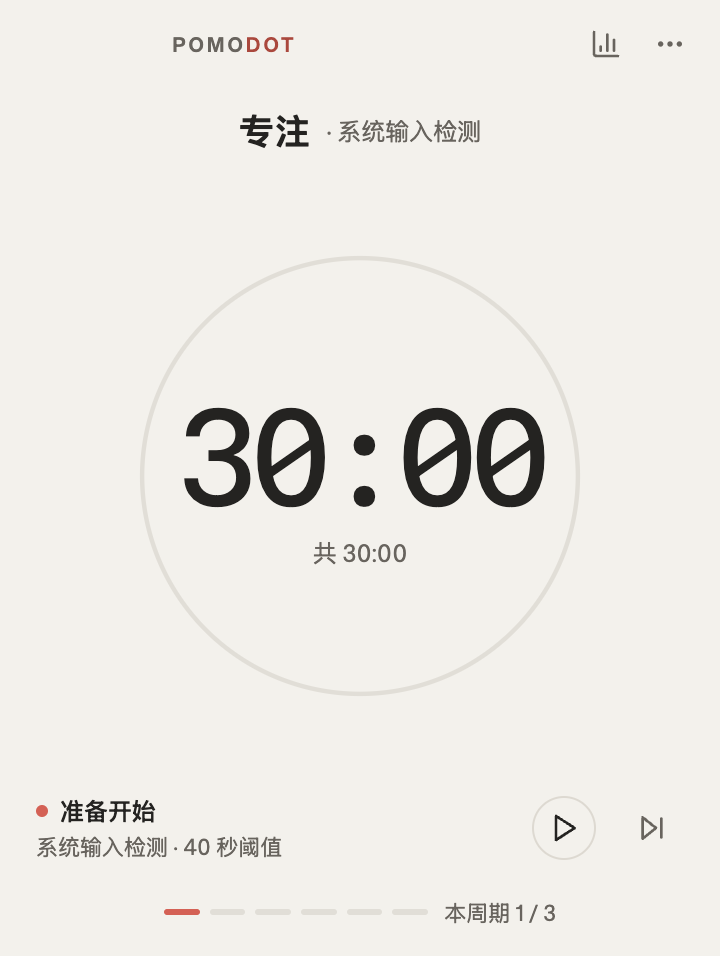
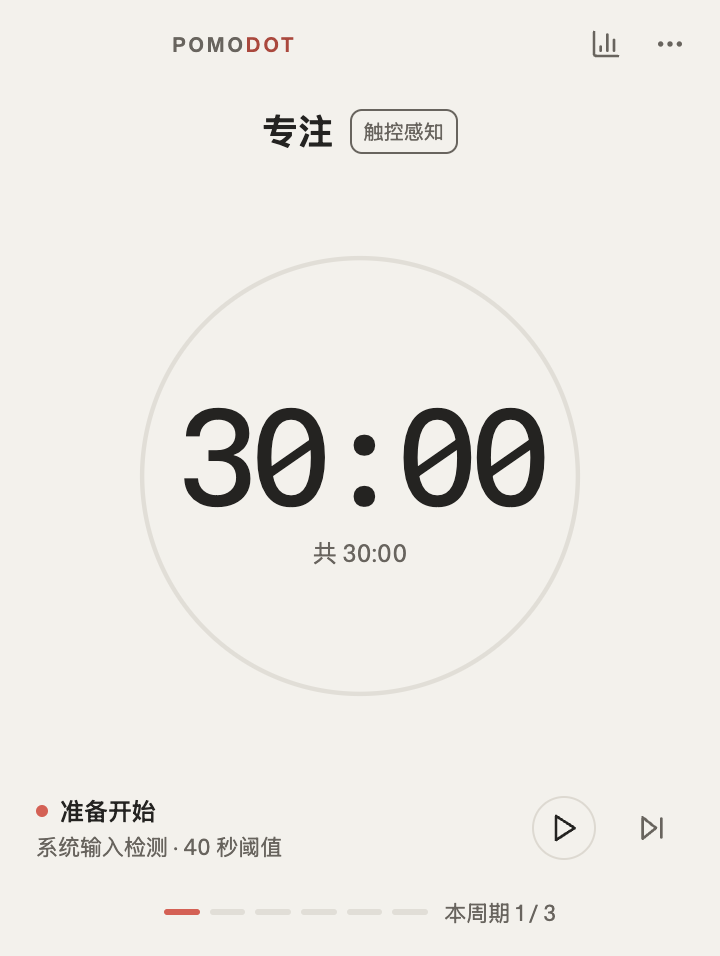
docs: document local camera sensing and verified delivery

Changed region(s): [[0.3361, 0.1213, 0.6722, 0.1517]]

diff --git a/apps/desktop/src/renderer/App.tsx b/apps/desktop/src/renderer/App.tsx
@@ -747,7 +747,11 @@ export function App(): ReactElement {
       if (!active) return;
       setOperationError(message);
       void window.pomodoro.reportCameraPresence("unknown", cameraState.generation).catch(() => {
-        // Main 的心跳看门狗也会处理 IPC 中断，避免前端自行接管计时。
+        // 领域：Camera / IPC 故障
+        // 顺序：Renderer 故障上报失败 -> Main 心跳期限 -> 触控回退。
+        // 作用：跨进程中断时等待 Main 的安全回退。
+        // 原因：前端不能自行决定权威计时或持久化模式。
+        // 边界：本地摄像头已由 controller 释放，不在此重复启动。
       });
     });
     return () => { active = false; stop(); };

diff --git a/docs/contracts.md b/docs/contracts.md
@@ -11,10 +11,20 @@ getSettings(): Promise<Settings>
 updateSettings(patch: Partial<Omit<Settings, "version">>): Promise<Settings>
 getCapabilities(): Promise<Capabilities>
 getStatistics(): Promise<StatisticsSnapshot>
+getCameraState(): Promise<CameraState>
+reportCameraPresence(presence: Presence, generation: number): Promise<TimerSnapshot>
 subscribe(listener: (event: CoreEvent) => void): () => void
 ```
 
-每个参数和返回值都经过共享 Zod schema。Main 仅接受主窗口 sender；Preload 不暴露通用 IPC。
+每个参数和返回值都经过共享 Zod schema。Main 仅接受可信主窗口的主 frame sender；Preload 不暴露通用 IPC。摄像头报告的 wire payload 为严格的 `{ presence, generation }`，拒绝额外字段；不接收画面、检测框、时间戳或设备信息。
+
+```ts
+type Presence = "present" | "away" | "unknown";
+interface CameraState { enabled: boolean; generation: number }
+interface Capabilities { inputMonitoring: boolean; cameraPresence: boolean; standingFocus: false }
+```
+
+`CameraState` 是 Main 决定的本次检测生命周期。切换模式、睡眠/锁屏、恢复或释放检测时更换代次；Main 拒绝停用或旧代次的报告。首次有效报告前有 25 秒启动窗口，之后连续 5 秒没有有效报告则停止监控并回退触控。`unknown` 表示故障，不作为离席使用。
 
 窗口拖动和尺寸约束由原生窗口处理，Renderer 根据视口尺寸排版。这些操作独立于计时命令、事件和持久化。
 
@@ -24,20 +34,22 @@ subscribe(listener: (event: CoreEvent) => void): () => void
 type TimerStatus = "idle" | "running" | "auto-paused" | "manual-paused";
 type RoundKind = "focus" | "short-break" | "long-break";
 type BreakMode = "active" | "desk";
-type PauseReason = "none" | "input-away" | "break-condition" | "system-suspend" | "system-lock" | "core-recovery" | "source-unavailable" | "storage-unavailable";
+type PauseReason = "none" | "input-away" | "camera-away" | "break-condition" | "system-suspend" | "system-lock" | "core-recovery" | "source-unavailable" | "storage-unavailable";
 
 interface TimerSnapshot {
   revision: number; emittedAt: string; status: TimerStatus; remainingMs: number;
   round: { kind: RoundKind; cycleNumber: number; positionInCycle: number; focusRoundNumber: number | null; breakMode: BreakMode | null; totalDurationMs: number };
-  automation: { activePresenceSource: "input"; inputPresence: "present" | "away" | "unknown"; cameraPresence: "unknown"; inputMonitoringAvailable: boolean; cameraMonitoringAvailable: false; manualPauseLocked: boolean; pauseReason: PauseReason };
+  automation: { activePresenceSource: "input" | "camera"; inputPresence: Presence; cameraPresence: Presence; inputMonitoringAvailable: boolean; cameraMonitoringAvailable: boolean; manualPauseLocked: boolean; pauseReason: PauseReason };
 }
 ```
 
-默认设置为 `30/5/30/5/30/10`。专注在场输入时运行，活动休息在离席时运行，桌前休息在无输入时运行。自动暂停冻结 `remainingMs`；手动暂停会设置锁。休息轮在空闲确认阈值前最多 10 秒由 TimerEngine 以内存候选预记倒计时，达到阈值并进入 `running` 时才扣除已观测的候选时长；确认前快照不变更剩余时间，首次样本超过阈值不补历史。候选不进入 IPC 或 SQLite，输入回归、手动操作、检测失败、睡眠、重启、切轮或阈值改变时取消，最多抵扣当前休息剩余时长。
+默认设置为 `30/5/30/5/30/10`。专注使用 `focusPresenceSource` 选中的在场源；活动休息和桌前休息始终使用系统输入无输入条件，`activePresenceSource` 显示当前轮次实际采用的来源。自动暂停冻结 `remainingMs`；手动暂停会设置锁。休息轮在空闲确认阈值前最多 10 秒由 TimerEngine 以内存候选预记倒计时，达到阈值并进入 `running` 时才扣除已观测的候选时长；确认前快照不变更剩余时间，首次样本超过阈值不补历史。候选不进入 IPC 或 SQLite，输入回归、手动操作、检测失败、睡眠、重启、切轮或阈值改变时取消，最多抵扣当前休息剩余时长。
 
 ## 3. 设置生效
 
 设置范围与产品规格一致：专注 300–7200 秒、短休 60–3600 秒、长休 60–5400 秒、周期 1–8 轮、输入阈值 10–600 秒。主题和常驻顶部立即生效；时长在下一轮同类型轮次生效，周期轮数在下一周期生效，休息模式在下一轮休息生效，输入阈值在下一采样生效。
+
+`focusPresenceSource: "input" | "camera"` 默认 `input`。改变来源立即清除旧摄像头在场状态；若当前为专注，也取消临时手动回退并将运行中的专注安全暂停，等待新源样本。不重置计时、不改变休息策略、不解除手动暂停锁。监控专注只在有效 `present` 时允许显式开始/继续。摄像头故障由 Main 保存回退后的 `input` 设置，并通过 `settings.changed` 通知 Renderer；用户重新选择监控才重试。
 
 ## 4. 事件
 
@@ -45,20 +57,22 @@ interface TimerSnapshot {
 type CoreEvent =
   | { type: "timer.snapshot"; snapshot: TimerSnapshot }
   | { type: "stats.changed"; statistics: StatisticsSnapshot }
+  | { type: "settings.changed"; settings: Settings }
+  | { type: "camera.state"; state: CameraState }
   | { type: "core.error"; code: string; message: string; recoverable: boolean };
 ```
 
-Main 每 500ms 广播权威快照。命令、输入采样、轮次变化、电源事件和设置保存走同一广播链，Renderer 从 `TimerSnapshot` 更新计时显示。
+Main 每 500ms 广播权威快照。命令、输入/摄像头采样、轮次变化、电源事件和设置保存走同一广播链，Renderer 从 `TimerSnapshot` 更新计时显示。Renderer 读取初始 `CameraState` 并监听 `camera.state`，按代次启动或释放唯一摄像头检测器；初始化完成后约每 500ms 上报三态心跳。切换到设置或统计不另开检测器。
 
 `stats.changed` 在完成记录事务提交后或本机日期变化时发布，不为跳过轮次增加统计。`core.error` 中 `STORAGE_UNAVAILABLE/recoverable=false` 表示计时已在内存中冻结、后台写入已停止，需要重新打开应用；`COMMAND_REJECTED/recoverable=true` 等普通操作错误只显示可恢复提示，不移除正常计时视图。
 
-检测故障下显式手动继续、锁屏门禁、完成通知计数仅存在于 TimerEngine 内存，不扩展 preload allowlist。有效检测恢复后取消临时手动回退；锁屏解除本身不启动计时。若变化仅涉及在场状态或检测可用性，实时快照更新 revision，SQLite 不写入。相同的静止样本保持 revision，运行中的轮次仍按秒保存进度。
+输入检测故障下显式手动继续、锁屏门禁、完成通知计数仅存在于 TimerEngine 内存。有效输入检测恢复后取消临时手动回退；锁屏解除本身不启动计时。若变化仅涉及在场状态或检测可用性，实时快照更新 revision，SQLite 不写入。相同的静止样本保持 revision，运行中的轮次仍按秒保存进度。
 
 ## 5. SQLite 数据模型
 
 保留并兼容既有表：`schema_migrations`、`settings`、单行 `timer_snapshot`、`completed_focus_sessions`。只有完整结束的 focus 写入 `completed_focus_sessions`。完成记录使用由周期和专注轮次生成的稳定 ID，`INSERT OR IGNORE` 防止重试重复计数。统计按 `local_date` 聚合今日、本周和最近 52 周数据。
 
-`TimerSnapshot` 是运行时 IPC 契约。闲置秒数只在 Main 内存中使用，Renderer 通过实时快照读取推断出的在场状态。SQLite 的计时检查点只保存恢复轮次所需的数据，普通检查点与完成专注的事务使用同一写入格式。重启后，在场状态为 `unknown`，直到收到有效样本。升级时，可读取的旧检查点转换为新格式，设置和完成记录继续保留。既有备份和故障恢复归档按原样保存，可能包含旧版本写入的字段。
+`TimerSnapshot` 是运行时 IPC 契约。闲置秒数只在 Main 内存中使用，Renderer 通过实时快照读取推断出的在场状态。摄像头帧只在 Renderer 瞬时处理，三态和代次只在内存中使用。SQLite 的计时检查点只保存恢复轮次所需的数据，普通检查点与完成专注的事务使用同一写入格式，不保存 `automation`、presence、摄像头代次或检测历史。设置中可保存选中的专注源，沿用版本 1 设置格式，不改动已发布的数据库迁移。重启后，两种在场状态均为 `unknown`，直到收到有效样本。升级时，可读取的旧检查点转换为新格式，设置和完成记录继续保留。既有备份和故障恢复归档按原样保存，可能包含旧版本写入的字段。
 
 Store 每次打开数据库都会尝试将 WAL 合入主文件并截断。若外部读取连接仍占用旧页，逻辑检查点已完成转换，旧页清理会在下次打开时重试。此时复制的原始文件也可能包含旧版本的数据。
 

diff --git a/docs/camera-presence-validation.md b/docs/camera-presence-validation.md
@@ -1,0 +1,34 @@
+# 摄像头感知开发验证
+
+本次按用户需求实现默认触控、主动切换监控的本地在场感知。专注使用选中来源，两种休息仍使用系统输入。参考同目录 Pomotroid 的本地模型和检测阈值，计时、故障回退、权限门禁和持久化继续由本项目负责。
+
+分支为 `codex/camera-presence`，基于 `origin/main` 的 `e530493`。功能与测试提交依次为 `36967f9`（状态机和契约）、`90f3856`（本地检测及模式入口）、`d2070bd`（跨进程、开发入口和小窗回归）；后续文档提交记录本次验证。开发使用独立 worktree，原工作目录的未提交修改保持原样。
+
+验证平台：Apple Silicon，macOS 26.4.1（25E253），Node.js 24.15.0，Electron 33.4.11。以下检查于 2026-11-07 完成。
+
+| 实际执行 | 结果 |
+| --- | --- |
+| `npm ci` | 成功安装锁定依赖 |
+| `npm run lint` / `npm run typecheck` | 通过 |
+| `npm run test` | 180 项通过，含计时、权限、严格契约、摄像头取消/故障清理和界面检查 |
+| `npm run test:store` | 13 项通过，含模式持久化、冻结进度恢复及检查点不含在场结果 |
+| `npm run build` | 通过，本地模型校验和匹配；SIMD/非 SIMD 运行时由锁定 npm 包生成 |
+| `npm run test:e2e` | 19 项全部通过，含 5 项摄像头用例及既有计时、窗口、数据故障回归 |
+| `node scripts/validate-renderer-layout.mjs` | 通过，覆盖最小窗口与多种宽高布局 |
+| `POMODORO_CAMERA_SMOKE=1 node scripts/smoke-dev.mjs` | 真实 `npm run dev`、隔离数据目录、同源本地推理和设备释放通过 |
+| `CSC_IDENTITY_AUTO_DISCOVERY=false npm run package --workspace=@pomodoro/desktop -- --dir` | macOS ARM64 应用目录打包通过，未签名；本次没有生成或验收 DMG 安装过程 |
+| 打包应用运行 `camera.e2e.ts` | 5 项通过，真实加载 ASAR 内本地模型和 WASM |
+| 打包内容检查 | 模型、两套 JS/WASM、Apache 许可证均在 ASAR 中；Info.plist 含摄像头用途说明 |
+
+摄像头 E2E 和开发入口验证始终使用 Chromium 模拟摄像头，没有采集物理摄像头。检测器使用真实本地 MediaPipe/BlazeFace，模拟无脸画面得到 `away`；请求记录确认生产检测没有 HTTP/HTTPS 资源请求，开发检测只访问本机 Vite 同源资源。另用受限 preload 上报受控三态样本，验证专注在场/离开、输入闲置隔离、手动暂停锁、睡眠后新代次、旧代次拒绝、重载和心跳过期回退。
+
+模拟设备用例还验证窗口隐藏超过心跳期限仍持续检测、160×180 小窗可从更多菜单切回触控、视频轨道进入 `ended`。全量回归曾发现模式按钮压缩最小窗口圆环；修复后紧凑布局通过菜单切换，既有圆环尺寸检查与完整 E2E 均通过。截图见[初始触控](assets/screenshots/timer-light.png)和[监控离开暂停](assets/screenshots/camera-monitor.png)。
+
+重新验证打包应用时，先执行上述打包命令，再在 `apps/desktop` 目录运行：
+
+```sh
+POMODORO_CAMERA_EXECUTABLE="$PWD/dist/mac-arm64/Pomodoro Timer.app/Contents/MacOS/Pomodoro Timer" \
+  npx playwright test camera.e2e.ts --output=test-results/camera-packaged
+```
+
+Windows 真机、物理摄像头在不同光照下的检测、OS 首次授权/撤销、真实睡眠/锁屏以及签名安装包验收尚未执行。下一步按[摄像头验证门](roadmap.md#摄像头验证门)分别记录 macOS 和 Windows 的 OS、构建及结果；模拟媒体流和模拟电源事件不代替这些项目。本次未发布、推送或合并分支。

diff --git a/docs/roadmap.md b/docs/roadmap.md
@@ -1,6 +1,6 @@
 # 分阶段路线图
 
-## 当前交付：Phase 1
+## 当前交付：Phase 1 与本地摄像头感知
 
 当前实现以 Electron + React + TypeScript 为唯一运行架构，不再有 Go/Rust sidecar。代码和自动化验证已覆盖以下闭环；发布门仍需完成真实平台验证：
 
@@ -11,6 +11,7 @@
 - 托盘、通知、关闭到托盘、置顶、事件广播、浅色/深色/跟随系统主题。拖动窗口边缘可缩成 160×180 的挂件，高度最多为宽度的 1.5 倍。小窗仍显示轮次、剩余时间、暂停原因、圆形操作按钮和统计入口。
 - 受限 preload、严格 CSP、Zod 运行时 IPC 校验、Vitest 状态机测试和 Playwright Electron E2E。
 - 单实例数据保护、锁屏门禁、检测故障下显式手动计时、字段级设置错误恢复、存储故障备份与用户选择重建、实时统计事件；静止检查点和托盘更新去重。
+- 按用户明确需求增加 Phase 2 本地摄像头感知：默认触控，主动选择监控，MediaPipe/BlazeFace 本地推断，主进程按三态信号管理专注；两种休息继续使用输入。此范围变更不代表 Phase 1 的所有真机发布门已通过。
 
 ## Phase 1 发布门
 
@@ -25,7 +26,26 @@
 
 ## Phase 2：本地摄像头在场
 
-仅在 Phase 1 发布门通过后实现。Renderer 在显式授权和 OS permission 后本地处理帧，只发送布尔 presence；不做身份识别、医疗判断或强活体反欺骗。失败时回退输入检测并可见提示。
+本次实现经用户明确授权提前开展，不阻塞既有 Phase 1 真机验收。Renderer 在主动选择监控和 OS permission 后本地处理帧，只发送三态 presence 与主进程签发的检测代次；不做身份识别、医疗判断或强活体反欺骗。摄像头权限、模型、视频和心跳失败均回退触控并可见提示；手动暂停锁和默认输入策略保持有效。
+
+### 摄像头验证门
+
+自动化验证与真机验收分别记录，模拟媒体流和模拟电源事件不能替代操作系统权限及物理设备检查。
+
+1. 状态机覆盖源切换、监控专注不受输入干扰、两种休息仍采用输入、unknown 安全暂停、手动暂停锁、睡眠/锁屏/重启后等待新样本。
+2. Renderer 验证默认触控不调用摄像头、模式控件与状态提示、初始化取消、模型/视频失败后释放资源，以及迟到异步结果清理。
+3. Electron E2E 验证严格 preload/IPC、旧代次拒绝、初始化/心跳超时回退和设置事件同步。原生 SQLite 验证监控设置重启保留、检查点没有在场状态或检测代次。
+4. 打包产物应包含本地模型、SIMD/非 SIMD WASM 和许可证；断网时可初始化检测，CSP 不依赖远程脚本或模型。
+
+| 真机项目 | macOS | Windows |
+| --- | --- | --- |
+| 默认触控无摄像头请求；首次允许/拒绝授权及系统设置撤销 | 待验收 | 待验收 |
+| 正常光照下在场、转头、离开 3 秒、回归；手动暂停锁 | 待验收 | 待验收 |
+| 外接摄像头拔出、设备占用、断网启动、重复切换释放指示灯 | 待验收 | 待验收 |
+| 最小化/隐藏/托盘后台检测；睡眠/锁屏释放与恢复新样本 | 待验收 | 待验收 |
+| 安装包摄像头用途声明、权限提示和实际资源加载 | 待验收 | 待验收 |
+
+本表在本次代码开发时不宣称真机通过。执行验收时补充 OS、架构、构建/提交及结果；任一平台未通过时不得把模拟 E2E 记为该平台已通过。
 
 ## Phase 3：手动站立专注与产品硬化
 

diff --git a/README.md b/README.md
@@ -38,6 +38,7 @@ beta.2 已知问题：
 
 - **可配置节奏**：默认 `30 / 5 / 30 / 5 / 30 / 10` 分钟，三轮专注后进入长休；可调整各轮时长和每周期专注轮数。
 - **输入闲置检测**：默认连续 40 秒无系统输入后暂停专注，恢复输入后按状态自动继续；手动暂停不会被自动解除。
+- **感知模式（开发版）**：默认触控，可主动切换监控，以本地摄像头在场信号管理专注。摄像头失败时提示并回退触控；两种休息继续使用系统输入。
 - **两种休息模式**：活动休息与桌前休息。当前均基于无输入信号判断开始与暂停，不代表已验证离席、走动或运动。
 - **本地统计**：今日、本周和最近 52 周热力图；只有完整完成的专注轮才计入统计，跳过或重置不计入。
 - **桌面控制**：拖动窗口边缘缩放计时器，拖动留白移动窗口。支持置顶、托盘菜单、系统通知，以及浅色/深色/跟随系统主题。
@@ -58,14 +59,15 @@ beta.2 已知问题：
 3. 使用暂停/继续控制当前轮，或点击下一步跳过；下一轮专注需要手动开始。
 4. 点击计时器右上角的统计图标查看专注记录，点击“更多操作”打开设置。修改节奏后，正在运行的轮次仍按原计划计时。[设置生效时机](docs/product-spec.md#2-默认配置与设置)
 5. 在开发版中，拖动窗口边缘调整大小，拖动计时器上的留白移动窗口。内容区域最小为 160×180，宽 160 px 时最高可拉到 240 px。小窗仍显示轮次、剩余时间和暂停原因，可直接点圆形播放按钮继续，或点统计图标查看记录。[查看最小窗口](docs/assets/screenshots/drag-minimum-interrupted-break.png)
+6. 开发版主界面的感知模式默认触控。选择监控并授予摄像头权限后，以人脸在场信号管理专注；切回触控即可停止摄像头。监控权限与实际设备仍需按[摄像头验证门](docs/roadmap.md#摄像头验证门)验收。
 
 ## 本地数据与隐私
 
 应用离线运行，设置、计时快照和完成记录保存在当前设备的 SQLite 数据库中，文件为 Electron `app.getPath("userData")` 下的 `pomodoro.sqlite`。
 
-系统输入检测只读取“距最近一次系统输入的秒数”，不记录按键内容、鼠标位置、活动窗口或屏幕内容。当前没有账号、云同步或遥测，也没有启用摄像头检测；摄像头在场和手动站立专注属于后续阶段，Linux 不在当前支持范围。
+系统输入检测只读取“距最近一次系统输入的秒数”，不记录按键内容、鼠标位置、活动窗口或屏幕内容。开发版的摄像头感知需要主动选择监控，画面只在本机瞬时处理，不保存、不上传，不识别身份。当前没有账号、云同步或遥测；手动站立专注属于后续阶段，Linux 不在当前支持范围。
 
-开发版只在内存中使用闲置秒数和推断出的在场状态。重启后会恢复轮次和剩余时间，等新的输入采样再判断在场状态。从旧版本升级时，已有备份保留原样；详见[更新记录](CHANGELOG.md)。
+开发版只在内存中使用闲置秒数和推断出的在场状态。重启后会恢复轮次和剩余时间，等选中来源的新样本再判断在场状态。从旧版本升级时，已有备份保留原样；详见[更新记录](CHANGELOG.md)。
 
 ## 从源码开发
 

diff --git a/AGENTS.md b/AGENTS.md
@@ -2,7 +2,7 @@
 
 ## Product scope
 
-Pomodoro Timer is a local-first Electron desktop focus timer for macOS and Windows. Phase 1 includes React/TypeScript UI, a main-process timer core, system-input monitoring, configurable `30/5/30/5/30/10` cycles, active/desk breaks, local statistics, heatmap, tray controls, notifications, compact layout, and light/dark/system themes. Phase 2 may add opt-in local camera presence; Phase 3 may add manual standing sessions.
+Pomodoro Timer is a local-first Electron desktop focus timer for macOS and Windows. Phase 1 includes React/TypeScript UI, a main-process timer core, system-input monitoring, configurable `30/5/30/5/30/10` cycles, active/desk breaks, local statistics, heatmap, tray controls, notifications, compact layout, and light/dark/system themes. Phase 2 adds opt-in local camera presence for focus rounds; system input remains the default and controls both break modes. Phase 3 may add manual standing sessions.
 
 Do not add accounts, cloud sync, telemetry, calendar scheduling, identity recognition, medical claims, Linux support, strict camera anti-spoofing, HTTP/WebSocket services, or child-process cores without an explicit scope change.
 
@@ -26,7 +26,8 @@ scripts/        development, verification, packaging, and release helpers
 
 - Keep `contextIsolation: true`, `nodeIntegration: false`, sandboxing, web security, and a restrictive CSP.
 - Validate every IPC input and every event payload with Zod; reject unknown commands and fields.
-- System input is represented only by seconds since the last system-wide input event. Never collect key values, mouse coordinates, active windows, screen contents, camera frames, embeddings, or identity data.
+- System input is represented only by seconds since the last system-wide input event. Never collect key values, mouse coordinates, active windows, screen contents, embeddings, or identity data. In opt-in camera mode, Renderer may process transient frames locally to derive presence, but must never retain, transmit, log, or persist frames, face boxes, or device labels.
+- Camera permission is restricted to the main window's trusted main frame while camera mode is selected. Deny microphone and unrelated permissions. Camera reports contain only presence and a Main-issued generation; stale or failed streams safely fall back to input with a visible reason.
 - Keep idle samples and derived presence in memory. Recover timer progress from SQLite and determine presence from a fresh sample after launch. Test checkpoint changes with a real database.
 - Phase 1 input monitoring uses Electron `powerMonitor.getSystemIdleTime()` on macOS and Windows. Failure is visible, becomes `unknown`, and safely pauses an active round; idle/manual-paused rounds are not started or overridden.
 - Automatic pause never decrements time. Manual pause locks automatic resume until the user presses continue.
@@ -61,7 +62,7 @@ npm run build
 npm run package
 ```
 
-Use the Phase 1 release checklist in `docs/roadmap.md` for real macOS and Windows input, notifications, tray, sleep/resume, and installer checks. Record the OS, build, and result separately from CI. Camera permissions belong to Phase 2.
+Use the release checklists in `docs/roadmap.md` for real macOS and Windows input, notifications, tray, sleep/resume, installer, and camera permission checks. Record the OS, build, and result separately from CI.
 
 ## Documentation authority
 

diff --git a/docs/request-flow.md b/docs/request-flow.md
@@ -9,11 +9,15 @@ React -> preload -> Main IPC -> TimerEngine -> SqliteStore
 
 启动时 Main 先取得单实例锁，再打开 `app.getPath("userData")/pomodoro.sqlite`、执行事务迁移、恢复快照并把上次运行中的轮次转为 `auto-paused/core-recovery`，随后创建窗口和托盘。重复启动只唤起已有窗口。计时不依赖 renderer 轮询。
 
-Renderer 启动时并行读取计时快照和设置，并订阅经 schema 校验的事件。
+Renderer 启动时并行读取计时快照、设置和摄像头生命周期状态，并订阅经 schema 校验的事件。
 
 点击开始、暂停、继续、下一轮或重置时，React 调用 `window.pomodoro.command`。Preload 和 Main 分别做 schema 校验，Main 将命令交给唯一 TimerEngine；成功迁移后保存快照，并通过 `pomodoro:event` 广播到窗口和托盘。Renderer 从事件更新显示，不自行扣减权威剩余时间。
 
 Main 每秒读取 `powerMonitor.getSystemIdleTime()`，只将秒数交给 TimerEngine。TimerEngine 根据阈值计算 `present/away`，遵循专注、活动休息和桌前休息规则；采样失败安全暂停并显示降级状态，用户明确继续后可手动计时，首次有效样本恢复自动化。suspend 事件冻结运行轮次并写入安全暂停状态；lock-screen 建立门禁，unlock-screen 解除门禁但等待下一有效样本才决定恢复。静止且状态未变化的输入不重复写入数据库。
+
+主界面默认「触控」。用户选择「监控」时，Renderer 通过 `updateSettings({ focusPresenceSource: "camera" })` 提交选择；Main 先安全暂停运行中的专注、清空旧摄像头状态，再签发新的 `{ enabled, generation }`，经 `camera.state` 通知 Renderer。Renderer 只在启用状态请求视频权限，在本地初始化 MediaPipe/BlazeFace 并约每秒检测两次，约每 500ms 通过 `reportCameraPresence(presence, generation)` 提交三态。Preload 和 Main 校验严格的 `{ presence, generation }`，Main 拒绝旧代次报告，再由 TimerEngine 根据当前轮次和手动暂停锁处理。两种休息始终根据系统输入管理；打开统计或设置不会重开摄像头。
+
+Renderer 为权限、视频和模型启动设置 20 秒期限，Main 等待首个有效样本的上限为 25 秒。摄像头权限拒绝、设备中断、启动超时、有效报告间隔超过 5 秒或 Renderer 丢失时，Main 将摄像头标为 `unknown`、停止旧代次并持久化回退触控，通过 `settings.changed` 和可恢复错误说明回退原因。专注等待新的输入样本，手动暂停保持锁定。选择触控、锁屏/睡眠和退出会释放摄像头；锁屏/睡眠恢复若仍选监控，重新签发代次并等待新样本。摄像头帧、检测框与设备信息不经过 preload，也不写入 SQLite。
 
 专注完成后，TimerEngine 生成等待条件的休息轮并广播快照。Main 的输入采样驱动休息自动开始或恢复。休息的剩余时间仍等于总时长，且当前处于 `idle` 或因 `break-condition` 自动暂停时，Renderer 提供“手动开始休息”。用户点击后，前者发送 `start`，后者发送 `resume`。
 

diff --git a/docs/README.md b/docs/README.md
@@ -11,17 +11,19 @@
 | 一个界面操作怎样传到 Main 并返回？ | [前端请求流程](./request-flow.md)追踪命令、采样和统计，并说明原生窗口缩放。 |
 | 为什么采用这样的节奏和隐私边界？ | [研究与决策](./research-and-decisions.md)记录证据、取舍和重新评估条件。 |
 | 如何给跨进程和状态机代码写注释？ | [代码注释约定](./code-commenting.md)含格式和示例。 |
+| 本地摄像头感知做了哪些验证？ | [摄像头开发验证](./camera-presence-validation.md)记录自动化、打包检查和真机边界。 |
 | 字体和视觉参考从哪里来？ | [第三方声明](./third-party-notices.md)说明素材来源。 |
 
 固定原则：本地离线、macOS/Windows 首发、默认 `30/5/30/5/30/10`、输入只传递闲置秒数、不记录敏感输入或相机内容、完成专注才统计、失败检测不伪造可靠 presence。
 
 ## 产品截图
 
-以下截图取自 macOS 26.4.1（Apple Silicon）上的真实 Electron 测试窗口，使用独立临时数据目录。计时器的三张截图来自当前开发版。设置和统计截图取自较早的提交，当时的包版本为 `0.1.0-beta.2`。[历史截图对应提交 f90e522](https://github.com/Jaxon1216/PomoTimer/commit/f90e5228f04fa2105de747dfa5681daad079ad52)
+以下截图取自 macOS 26.4.1（Apple Silicon）上的真实 Electron 测试窗口，使用独立临时数据目录。初始计时器、监控感知和设置图随本次开发更新；监控图使用 Chromium 模拟摄像头和真实本地模型，不采集物理摄像头。休息图和统计图保留此前的开发版截图。[历史截图对应提交 f90e522](https://github.com/Jaxon1216/PomoTimer/commit/f90e5228f04fa2105de747dfa5681daad079ad52)
 
 | 界面 | 可查看的状态 |
 | --- | --- |
 | [初始计时器](./assets/screenshots/timer-light.png) | 第一轮专注，等待用户开始。 |
+| [监控感知](./assets/screenshots/camera-monitor.png) | 无脸画面识别为离开，专注自动暂停；可直接切回触控。 |
 | [拖小窗口](./assets/screenshots/long-break-waiting-compact.png) | 220×240 小窗等待开始 10 分钟活动休息，测试的闲置阈值为 600 秒。 |
 | [最小窗口](./assets/screenshots/drag-minimum-interrupted-break.png) | 在 160×180 的窗口中，短休因输入暂停，可直接点击圆形播放按钮继续。 |
 | [设置](./assets/screenshots/settings-dark.png) | 切换到深色主题，开启常驻顶部。 |

diff --git a/CHANGELOG.md b/CHANGELOG.md
@@ -6,6 +6,7 @@
 
 ### 改动
 
+- 新增「监控 / 触控」感知模式切换，默认触控。主动开启监控后，本地摄像头在场信号管理专注暂停与恢复；休息继续根据系统输入管理。摄像头拒绝授权、断开或检测失败时提示并回退触控；画面不保存、不上传。
 - 系统输入在场状态只在内存中使用，重启后重新采样。升级时清理可读取的旧计时快照中的在场信息，保留轮次、剩余时间和历史统计；已生成的旧备份保持原样。
 - 拖动窗口边缘即可把计时器缩成桌面挂件，拖动留白可移动窗口。最小内容区域为 160×180，高度最多为宽度的 1.5 倍，宽矮窗口也可使用。小窗保留暂停原因、圆形计时按钮和直接统计入口。macOS 菜单栏中的计时更清晰。
 - 等待休息时可预记达到闲置阈值前最多 10 秒的倒计时。达到阈值后才扣除实际观测时间，中途收到输入则取消预记。
